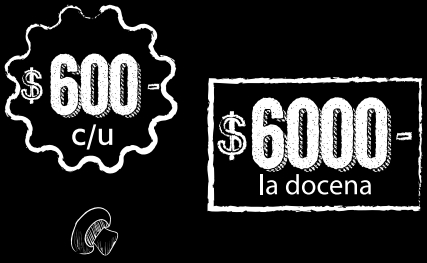
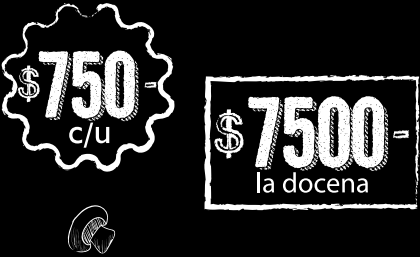
precios-actu-septiembre

diff --git a/src/data/Pizzas-data.jsx b/src/data/Pizzas-data.jsx
@@ -1,33 +1,33 @@
 
 const productos = [
-    { id: 1, nombre: 'Mozzarella', descripcion: 'Salsa de tomate y mozzarella', precio: 3500 },
+    { id: 1, nombre: 'Mozzarella', descripcion: 'Salsa de tomate y mozzarella', precio: 4000 },
     { id: 2, nombre: 'Doble Mozza', descripcion: 'Salsa de tomate y doble mozzarella',precio: 
-    4800 },
-    { id: 3, nombre: 'Mozza c/Jamón', descripcion: 'Salsa de tomate, mozzarella y jamón',precio: 4500 },
-    { id: 4, nombre: 'Mozza c/anchoas', descripcion: 'Salsa de tomate, mozzarella y anchoas', precio: 5100 },
-    { id: 5, nombre: 'Jamón y Morrón', descripcion: 'Salsa de tomate, mozzarella , jamón y morrón',precio: 5400 },
-    { id: 6, nombre: 'Napolitana', descripcion: 'Salsa de tomate, mozzarella y tomate natural',precio: 4500 },
-    { id: 7, nombre: 'Napolitana y Jamón', descripcion: 'Salsa de tomate, mozzarella, tomate natural y jamón', precio: 5400 },
-    { id: 8, nombre: 'Fugaza c/Queso', descripcion: 'cebolla y mozzarella',precio: 4200 },
-    { id: 9, nombre: 'Fugaza rellena', descripcion: 'cebolla, mozzarella y jamón',precio: 6600 },
-    { id: 10, nombre: 'Salchicha', descripcion: 'Salsa de tomate, mozzarella y salchicha', precio: 4800 },
-    { id: 11, nombre: 'Palmitos', descripcion: 'Salsa de tomate, mozzarella y palmito',precio: 5400 },
-    { id: 12, nombre: 'Palmitos c/Jamón', descripcion: 'Salsa de tomate, mozzarella, palmito y jamón',precio: 6300 },
-    { id: 13, nombre: 'Champiñones', descripcion: 'Salsa de tomate, mozzarella y champiñon',precio: 5400 },
-    { id: 14, nombre: 'Hawaiana', descripcion: 'Salsa de tomate, mozzarella, jamón y ananá ',precio: 6300 },
-    { id: 15, nombre: 'Piamontesa', descripcion: 'Salsa de tomate, mozzarella, calabresa, champiñones y panceta',precio: 6600 },
-    { id: 16, nombre: 'Primavera', descripcion: 'Salsa de tomate, mozzarella, tomate, huevo y jamón',precio: 5700 },
-    { id: 17, nombre: 'Huevo', descripcion: 'Salsa de tomate, mozzarella y huevo',precio: 4500 },
-    { id: 18, nombre: 'Huevo c/Jamón', descripcion: 'Salsa de tomate, mozzarella, jamón y huevo',precio: 5400 },
-    { id: 19, nombre: 'Provolone', descripcion: 'Salsa de tomate, mozzarella y provolone',precio: 5400 },
-    { id: 20, nombre: 'Roquefort', descripcion: 'Salsa de tomate, mozzarella y roquefort',precio: 5400 },
-    { id: 21, nombre: 'Calabresa', descripcion: 'Salsa de tomate, mozzarella y calabresa',precio: 4600 },
-    { id: 22, nombre: 'Calabresa Especial', descripcion: 'Salsa de tomate, mozzarella, calabresa y morrón',precio: 5500 },
-    { id: 23, nombre: 'Rúcula y Parmesano', descripcion: 'Salsa de tomate, mozzarella, rúcula natural y parmesano',precio: 5700 },
-    { id: 24, nombre: 'Rúcula y Provolone', descripcion: 'Salsa de tomate, mozzarella, rúcula natural  y provolone',precio: 5800 },
-    { id: 25, nombre: 'Rúcula y Jamón Crudo', descripcion: 'Salsa de tomate, mozzarella, rúcula natural  y jamón crudo',precio: 5950 },
-    { id: 26, nombre: 'Especial BLOCK', descripcion: 'Salsa de tomate, mozzarella, panceta, huevos fritos y papas fritas',precio: 6900 },
-    { id: 27, nombre: 'Faina (porción)', descripcion: '',precio: 500 }
+    5500 },
+    { id: 3, nombre: 'Mozza c/Jamón', descripcion: 'Salsa de tomate, mozzarella y jamón',precio: 5200 },
+    { id: 4, nombre: 'Mozza c/anchoas', descripcion: 'Salsa de tomate, mozzarella y anchoas', precio: 5500 },
+    { id: 5, nombre: 'Jamón y Morrón', descripcion: 'Salsa de tomate, mozzarella , jamón y morrón',precio: 6500 },
+    { id: 6, nombre: 'Napolitana', descripcion: 'Salsa de tomate, mozzarella y tomate natural',precio: 5200 },
+    { id: 7, nombre: 'Napolitana y Jamón', descripcion: 'Salsa de tomate, mozzarella, tomate natural y jamón', precio: 6500 },
+    { id: 8, nombre: 'Fugaza c/Queso', descripcion: 'cebolla y mozzarella',precio: 4500 },
+    { id: 9, nombre: 'Fugaza rellena', descripcion: 'cebolla, mozzarella y jamón',precio: 7800 },
+    { id: 10, nombre: 'Salchicha', descripcion: 'Salsa de tomate, mozzarella y salchicha', precio: 5500 },
+    { id: 11, nombre: 'Palmitos', descripcion: 'Salsa de tomate, mozzarella y palmito',precio: 6500 },
+    { id: 12, nombre: 'Palmitos c/Jamón', descripcion: 'Salsa de tomate, mozzarella, palmito y jamón',precio: 7500 },
+    { id: 13, nombre: 'Champiñones', descripcion: 'Salsa de tomate, mozzarella y champiñon',precio: 6500 },
+    { id: 14, nombre: 'Hawaiana', descripcion: 'Salsa de tomate, mozzarella, jamón y ananá ',precio: 7500 },
+    { id: 15, nombre: 'Piamontesa', descripcion: 'Salsa de tomate, mozzarella, calabresa, champiñones y panceta',precio: 8500 },
+    { id: 16, nombre: 'Primavera', descripcion: 'Salsa de tomate, mozzarella, tomate, huevo y jamón',precio: 7500 },
+    { id: 17, nombre: 'Huevo', descripcion: 'Salsa de tomate, mozzarella y huevo',precio: 5200 },
+    { id: 18, nombre: 'Huevo c/Jamón', descripcion: 'Salsa de tomate, mozzarella, jamón y huevo',precio: 6500 },
+    { id: 19, nombre: 'Provolone', descripcion: 'Salsa de tomate, mozzarella y provolone',precio: 6500 },
+    { id: 20, nombre: 'Roquefort', descripcion: 'Salsa de tomate, mozzarella y roquefort',precio: 6500 },
+    { id: 21, nombre: 'Calabresa', descripcion: 'Salsa de tomate, mozzarella y calabresa',precio: 5500 },
+    { id: 22, nombre: 'Calabresa Especial', descripcion: 'Salsa de tomate, mozzarella, calabresa y morrón',precio: 6800 },
+    { id: 23, nombre: 'Rúcula y Parmesano', descripcion: 'Salsa de tomate, mozzarella, rúcula natural y parmesano',precio: 7200 },
+    { id: 24, nombre: 'Rúcula y Provolone', descripcion: 'Salsa de tomate, mozzarella, rúcula natural  y provolone',precio: 7500 },
+    { id: 25, nombre: 'Rúcula y Jamón Crudo', descripcion: 'Salsa de tomate, mozzarella, rúcula natural  y jamón crudo',precio: 8500 },
+    { id: 26, nombre: 'Especial BLOCK', descripcion: 'Salsa de tomate, mozzarella, panceta, huevos fritos y papas fritas',precio: 9500 },
+    { id: 27, nombre: 'Faina (porción)', descripcion: '',precio: 650 }
 
   
 ]

diff --git a/src/data/Milanesas-data.jsx b/src/data/Milanesas-data.jsx
@@ -1,20 +1,20 @@
 
 const milanesasData = [
-    { id: 1, nombre: 'Milanesa', descripcion: 'Milanesas + papas fritas', precio: 5000 },
-    { id: 2, nombre: 'Napolitana', descripcion: 'Salsa de tomate, mozzarella y tomate natural + fritas',precio: 6500 },
-    { id: 3, nombre: 'Jamón y Morrón', descripcion: 'Salsa de tomate, mozzarella , jamón y morrón',precio: 7000 },
-    { id: 4, nombre: 'Jamón y Huevo', descripcion: 'Salsa de tomate, mozzarella, jamón y huevo duro + fritas', precio: 7000 },
-    { id: 5, nombre: 'Fugazza c/Queso', descripcion: 'Mozzarella y cebolla + fritas',precio: 6000 },
-    { id: 6, nombre: 'Primavera', descripcion: 'Salsa de tomate, mozzarella, tomate, huevo y jamón + fritas',precio: 7500 },
-    { id: 7, nombre: 'Provolone', descripcion: 'Salsa de tomate, mozzarella y provolone + fritas',precio: 7000 },
-    { id: 8, nombre: 'Roquefort', descripcion: 'Salsa de tomate, mozzarella y roquefort + fritas',precio: 7000 },
-    { id: 9, nombre: 'Hawaiana', descripcion: 'Salsa de tomate, mozzarella, jamón y ananá + fritas',precio: 7500 },
-    { id: 10, nombre: 'Calabresa', descripcion: 'Salsa de tomate, mozzarella y calabresa + fritas',precio: 7000 },
-    { id: 11, nombre: 'Rúcula y Jamón Crudo', descripcion: 'Salsa de tomate, mozzarella, rúcula natural  y jamón crudo + fritas',precio: 7500 },
-    { id: 12, nombre: 'Rúcula y Parmesano', descripcion: 'Salsa de tomate, mozzarella, rúcula natural y parmesano + fritas',precio: 7250 },
-    { id: 13, nombre: 'Mila BLOCK', descripcion: 'Salsa de tomate, mozzarella, panceta, huevos fritos y papas fritas + porción de fritas',precio: 8000 },
-    { id: 14, nombre: 'Porción de Fritas', descripcion: '(Para Compartir)',precio: 3000 },
-    { id: 15, nombre: 'Fritas', descripcion: '(Media Porción)',precio: 2000 }
+    { id: 1, nombre: 'Milanesa', descripcion: 'Milanesas + papas fritas', precio: 6500 },
+    { id: 2, nombre: 'Napolitana', descripcion: 'Salsa de tomate, mozzarella y tomate natural + fritas',precio: 8500 },
+    { id: 3, nombre: 'Jamón y Morrón', descripcion: 'Salsa de tomate, mozzarella , jamón y morrón',precio: 9500 },
+    { id: 4, nombre: 'Jamón y Huevo', descripcion: 'Salsa de tomate, mozzarella, jamón y huevo duro + fritas', precio: 9500 },
+    { id: 5, nombre: 'Fugazza c/Queso', descripcion: 'Mozzarella y cebolla + fritas',precio: 8000 },
+    { id: 6, nombre: 'Primavera', descripcion: 'Salsa de tomate, mozzarella, tomate, huevo y jamón + fritas',precio: 10500 },
+    { id: 7, nombre: 'Provolone', descripcion: 'Salsa de tomate, mozzarella y provolone + fritas',precio: 9500 },
+    { id: 8, nombre: 'Roquefort', descripcion: 'Salsa de tomate, mozzarella y roquefort + fritas',precio: 9500 },
+    { id: 9, nombre: 'Hawaiana', descripcion: 'Salsa de tomate, mozzarella, jamón y ananá + fritas',precio: 10500 },
+    { id: 10, nombre: 'Calabresa', descripcion: 'Salsa de tomate, mozzarella y calabresa + fritas',precio: 9500 },
+    { id: 11, nombre: 'Rúcula y Jamón Crudo', descripcion: 'Salsa de tomate, mozzarella, rúcula natural  y jamón crudo + fritas',precio: 10500 },
+    { id: 12, nombre: 'Rúcula y Parmesano', descripcion: 'Salsa de tomate, mozzarella, rúcula natural y parmesano + fritas',precio: 10500 },
+    { id: 13, nombre: 'Mila BLOCK', descripcion: 'Salsa de tomate, mozzarella, panceta, huevos fritos y papas fritas + porción de fritas',precio: 12000 },
+    { id: 14, nombre: 'Porción de Fritas', descripcion: '(Para Compartir)',precio: 4000 },
+    { id: 15, nombre: 'Fritas', descripcion: '(Media Porción)',precio: 2500 }
 
 ]
 

diff --git a/src/data/Sandwiches-data.jsx b/src/data/Sandwiches-data.jsx
@@ -1,7 +1,7 @@
 const sandwichesData = [
-    { id: 1, nombre: 'Sándwich de Milanesa simple', descripcion: '', precio: 2500 },
-    { id: 2, nombre: 'Sándwich de Milanesa', descripcion: '(2 ingredientes a elección) Lechuga - tomate - jamón y queso',precio: 3000 },
-    { id: 3, nombre: 'Sándwich de Milanesa', descripcion: 'Completo',precio: 3500 },
+    { id: 1, nombre: 'Sándwich de Milanesa simple', descripcion: '', precio: 3000 },
+    { id: 2, nombre: 'Sándwich de Milanesa', descripcion: '(2 ingredientes a elección) Lechuga - tomate - jamón y queso',precio: 3500 },
+    { id: 3, nombre: 'Sándwich de Milanesa', descripcion: 'Completo',precio: 4000 },
 ]
 
 export default sandwichesData

diff --git a/src/data/Papas-data.jsx b/src/data/Papas-data.jsx
@@ -1,7 +1,7 @@
 const papasData = [
-    { id: 1, nombre: 'Cheddar - Panceta y Verdeo', precio: 1500 },
-    { id: 2, nombre: 'Huevos Fritos (Dos)', precio: 1200 },
-    { id: 3, nombre: 'Provenzal', precio: 950 },
+    { id: 1, nombre: 'Cheddar - Panceta y Verdeo', precio: 2000 },
+    { id: 2, nombre: 'Huevos Fritos (Dos)', precio: 1500 },
+    { id: 3, nombre: 'Provenzal', precio: 1200 },
 ]
 
 export default papasData
